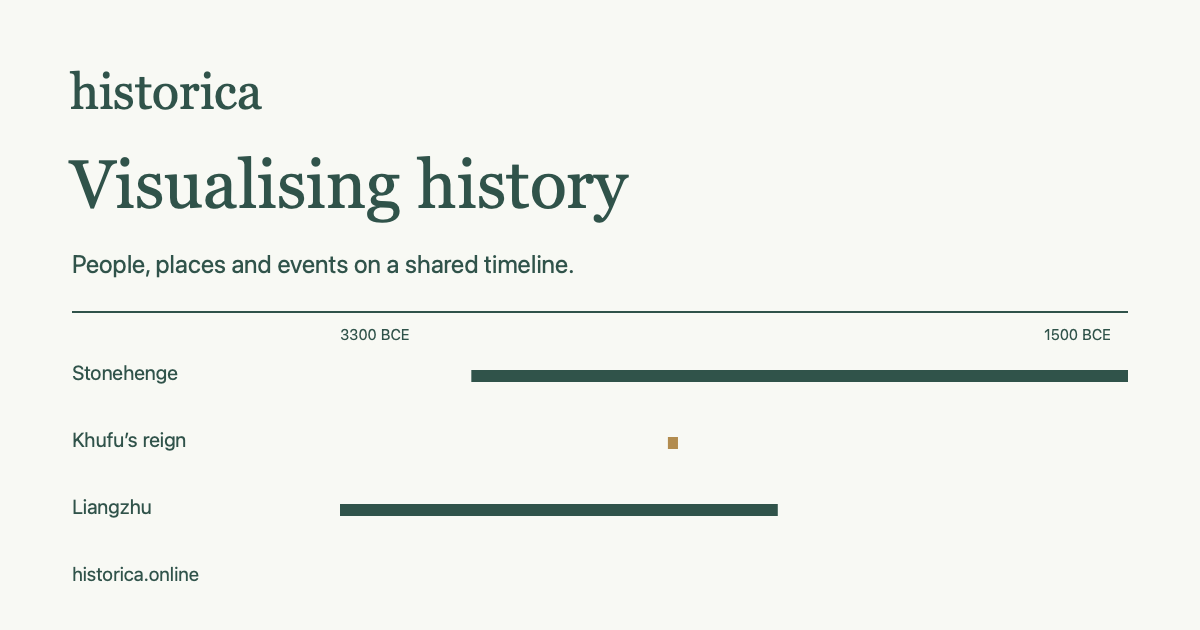
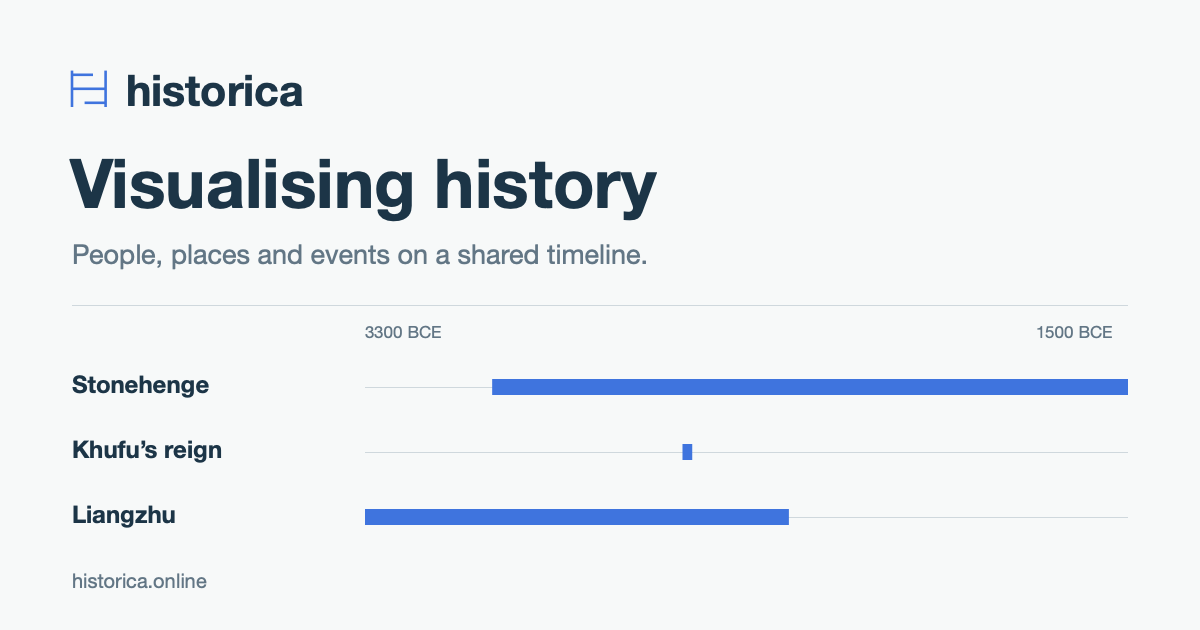
Refresh sharing artwork for the Chronology design

diff --git a/scripts/build-share-image.swift b/scripts/build-share-image.swift
@@ -3,25 +3,40 @@ import AppKit
 let bitmap = NSBitmapImageRep(bitmapDataPlanes:nil,pixelsWide:1200,pixelsHigh:630,bitsPerSample:8,samplesPerPixel:4,hasAlpha:true,isPlanar:false,colorSpaceName:.deviceRGB,bytesPerRow:0,bitsPerPixel:0)!
 NSGraphicsContext.saveGraphicsState()
 NSGraphicsContext.current = NSGraphicsContext(bitmapImageRep:bitmap)
-let paper = NSColor(calibratedRed: 0.965, green: 0.969, blue: 0.945, alpha: 1)
-let ink = NSColor(calibratedRed: 0.145, green: 0.259, blue: 0.224, alpha: 1)
-let gold = NSColor(calibratedRed: 0.635, green: 0.478, blue: 0.243, alpha: 1)
+func colour(_ hex: UInt32) -> NSColor {
+ NSColor(calibratedRed:CGFloat((hex >> 16) & 255)/255,green:CGFloat((hex >> 8) & 255)/255,blue:CGFloat(hex & 255)/255,alpha:1)
+}
+let paper=colour(0xf5f7f8), ink=colour(0x162837), muted=colour(0x506372), line=colour(0xc5cfd5), accent=colour(0x315bd6)
 paper.setFill();NSRect(x:0,y:0,width:1200,height:630).fill()
-func text(_ text:String,_ x:CGFloat,_ y:CGFloat,_ size:CGFloat,_ serif:Bool=false){
- let font = serif ? NSFont(name:"Georgia",size:size)! : NSFont.systemFont(ofSize:size)
- (text as NSString).draw(at:NSPoint(x:x,y:y),withAttributes:[.font:font,.foregroundColor:ink])
+func text(_ text:String,_ x:CGFloat,_ y:CGFloat,_ size:CGFloat,_ bold:Bool=false,_ colour:NSColor=ink){
+ let font=NSFont(name:bold ? "HelveticaNeue-Bold" : "HelveticaNeue",size:size)!
+ (text as NSString).draw(at:NSPoint(x:x,y:y),withAttributes:[.font:font,.foregroundColor:colour])
 }
-text("historica",70,510,50,true)
+// The same H/timeline mark used by src/components/Brand.astro.
+let logo=NSBezierPath();logo.lineWidth=2.6
+func stroke(_ points:[NSPoint]) {logo.move(to:points[0]);for p in points.dropFirst(){logo.line(to:p)}}
+func point(_ x:CGFloat,_ y:CGFloat)->NSPoint {NSPoint(x:65+x*1.4,y:565-y*1.4)}
+stroke([point(5,4),point(5,30)]);stroke([point(29,4),point(29,30)])
+stroke([point(5,17),point(29,17)]);stroke([point(5,7),point(20,7)]);stroke([point(14,27),point(29,27)])
+accent.setStroke();logo.stroke()
+text("historica",126,515,43,true)
 text("Visualising history",70,407,68,true)
-text("People, places and events on a shared timeline.",72,352,25)
-ink.setFill();NSRect(x:72,y:317,width:1056,height:2).fill()
-text("3300 BCE",340,286,15)
-text("1500 BCE",1044,286,15)
-for (i, label) in ["Stonehenge", "Khufu’s reign", "Liangzhu"].enumerated(){
- let y=CGFloat(245-i*67);text(label,72,y,20)
- let start:[CGFloat]=[471.33,667.9,340],width:[CGFloat]=[656.67,10.07,437.78]
- (i==1 ? gold : ink).setFill();NSRect(x:start[i],y:y+3,width:width[i],height:12).fill()
+text("People, places and events on a shared timeline.",72,360,27,false,muted)
+line.setFill();NSRect(x:72,y:324,width:1056,height:1).fill()
+text("3300 BCE",365,288,17,false,muted)
+text("1500 BCE",1036,288,17,false,muted)
+let axisStart:CGFloat=365, axisWidth:CGFloat=763
+for (index,row) in [("Stonehenge",-3000.0,-1500.0),("Khufu’s reign",-2551.0,-2528.0),("Liangzhu",-3300.0,-2300.0)].enumerated(){
+ let y=CGFloat(235-index*65)
+ text(row.0,72,y-3,24,true)
+ line.setFill();NSRect(x:axisStart,y:y+7,width:axisWidth,height:1).fill()
+ let x=axisStart+CGFloat(row.1+3300)/1800*axisWidth
+ let width=CGFloat(row.2-row.1)/1800*axisWidth
+ accent.setFill();NSRect(x:x,y:y,width:width,height:16).fill()
 }
-text("historica.online",72,44,19)
+text("historica.online",72,38,20,false,muted)
 NSGraphicsContext.restoreGraphicsState()
-try bitmap.representation(using:.png,properties:[:])!.write(to:URL(fileURLWithPath:"web/share-historica.png"))
+let png=bitmap.representation(using:.png,properties:[:])!
+try png.write(to:URL(fileURLWithPath:"web/share-historica-chronology.png"))
+// Keep the former image URL working for previously fetched sharing metadata.
+try png.write(to:URL(fileURLWithPath:"web/share-historica.png"))

diff --git a/src/presentation/metadata.ts b/src/presentation/metadata.ts
@@ -2,7 +2,7 @@ import {escapeHtml as escape} from './html.js';
 export const origin='https://historica.online';
 export const description=(text: string)=>{const plain=String(text||'').replace(/\s+/g,' ').trim();return plain.length<=170?plain:plain.slice(0,167).replace(/\s+\S*$/,'')+'…';};
 export function metadataHead(title: string,desc: string,path: string,{noindex=false,website=false}: {noindex?: boolean; website?: boolean}={}){
- const url=origin+path,image=origin+'/share-historica.png';
+ const url=origin+path,image=origin+'/share-historica-chronology.png';
  const tags=[`<title>${escape(title)}</title>`,`<meta name="description" content="${escape(desc)}">`,`<link rel="canonical" href="${escape(url)}">`,`<meta name="robots" content="${noindex?'noindex, follow':'index, follow, max-image-preview:large'}">`,...Object.entries({'og:type':'website','og:site_name':'Historica','og:locale':'en_GB','og:title':title,'og:description':desc,'og:url':url,'og:image':image,'og:image:type':'image/png','og:image:width':'1200','og:image:height':'630','og:image:alt':'Historica. Visualising history. A timeline of overlapping histories.'}).map(([property,value])=>`<meta property="${property}" content="${escape(value)}">`),...Object.entries({'twitter:card':'summary_large_image','twitter:title':title,'twitter:description':desc,'twitter:image':image,'twitter:image:alt':'Historica. Visualising history.'}).map(([name,value])=>`<meta name="${name}" content="${escape(value)}">`)];
  if(website)tags.push('<script type="application/ld+json">'+JSON.stringify({'@context':'https://schema.org','@type':'WebSite',name:'Historica',url:origin+'/',description:desc,inLanguage:'en-GB',creator:{'@type':'Person',name:'Ian Sproates',url:'https://sproates.net',sameAs:['https://www.linkedin.com/in/sproates/','https://github.com/sproates']}}).replaceAll('<','\\u003c')+'</script>');
  return '<!-- metadata:start -->\n'+tags.join('\n')+'\n<!-- metadata:end -->';

diff --git a/tests/metadata.test.ts b/tests/metadata.test.ts
@@ -22,12 +22,12 @@ test('every published history has unique crawler-visible metadata and canonical 
 test('main pages expose social images and the site identity without JavaScript',()=>{
  for(const name of ['index.html','about.html','coverage.html']){
   const html=read(name);
-  assert.match(html,/property="og:image" content="https:\/\/historica.online\/share-historica.png"/);
+  assert.match(html,/property="og:image" content="https:\/\/historica.online\/share-historica-chronology.png"/);
   assert.match(html,/name="twitter:card" content="summary_large_image"/);
   assert.equal((html.split('</head>')[0].match(/<title>/g)||[]).length,1);
  }
  const schema=JSON.parse(read('index.html').match(/<script type="application\/ld\+json">(.*?)<\/script>/s)[1]);
  assert.equal(schema.name,'Historica');assert.equal(schema.creator.name,'Ian Sproates');
- const png=fs.readFileSync('web/share-historica.png');assert.equal(png.readUInt32BE(16),1200);assert.equal(png.readUInt32BE(20),630);
+ const png=fs.readFileSync('web/share-historica-chronology.png');assert.equal(png.readUInt32BE(16),1200);assert.equal(png.readUInt32BE(20),630);
  assert.ok(read('robots.txt').includes('https://historica.online/sitemap.xml'));
 });

diff --git a/web/focus.html b/web/focus.html
@@ -11,7 +11,7 @@
 <meta property="og:title" content="Explore history · Historica">
 <meta property="og:description" content="Explore connected lives, places and events.">
 <meta property="og:url" content="https://historica.online/focus.html">
-<meta property="og:image" content="https://historica.online/share-historica.png">
+<meta property="og:image" content="https://historica.online/share-historica-chronology.png">
 <meta property="og:image:type" content="image/png">
 <meta property="og:image:width" content="1200">
 <meta property="og:image:height" content="630">
@@ -19,7 +19,7 @@
 <meta name="twitter:card" content="summary_large_image">
 <meta name="twitter:title" content="Explore history · Historica">
 <meta name="twitter:description" content="Explore connected lives, places and events.">
-<meta name="twitter:image" content="https://historica.online/share-historica.png">
+<meta name="twitter:image" content="https://historica.online/share-historica-chronology.png">
 <meta name="twitter:image:alt" content="Historica. Visualising history.">
 <!-- metadata:end -->
 </head><body>
